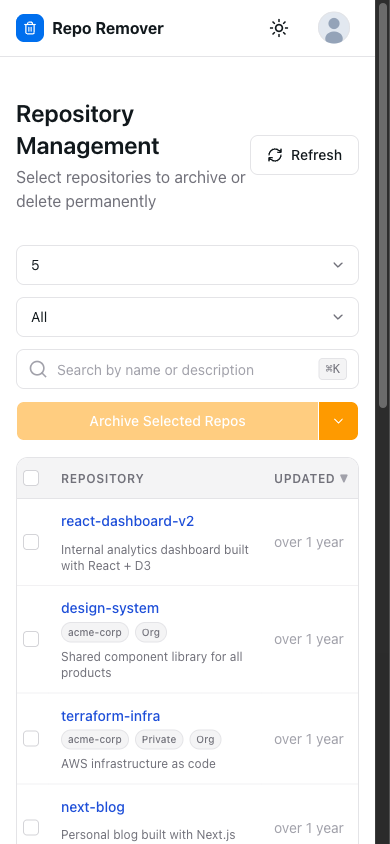
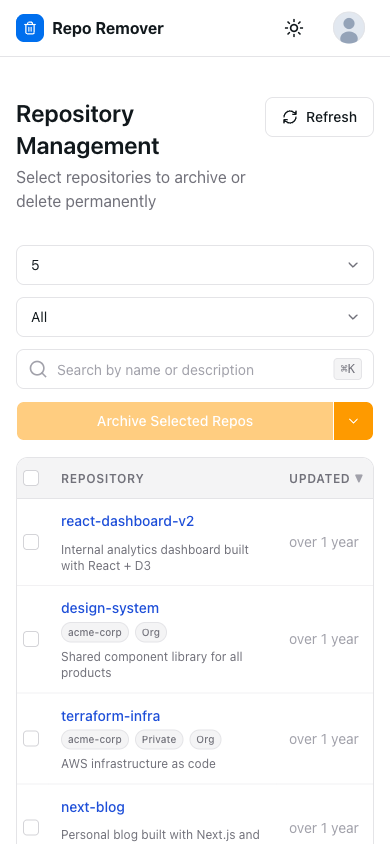
fix: no scrollbars in screenshots, gap between title and refresh btn
- Hide scrollbars in screenshot captures
- Add gap-4 + min-w-0/shrink-0 so title doesn't crowd Refresh button
- Retake all 4 screenshots with fixes

diff --git a/src/components/dashboard.tsx b/src/components/dashboard.tsx
@@ -49,8 +49,8 @@ export default function Dashboard({
 
   return (
     <section className="py-10 flex-grow">
-      <div className="flex items-center justify-between mb-8">
-        <div>
+      <div className="flex items-start sm:items-center justify-between gap-4 mb-8">
+        <div className="min-w-0">
           <h1
             className="text-2xl font-semibold"
             data-testid="repo-table-header"
@@ -65,7 +65,7 @@ export default function Dashboard({
         {onRefresh && (
           <Button
             aria-label="Refresh repository data"
-            className="gap-2 px-4 py-2 border-divider cursor-pointer hover:bg-default-100 hover:border-default-300 active:scale-95 transition-all"
+            className="shrink-0 gap-2 px-4 py-2 border-divider cursor-pointer hover:bg-default-100 hover:border-default-300 active:scale-95 transition-all"
             disabled={isLoading || isRefreshing}
             onClick={onRefresh}
             variant="ghost"
